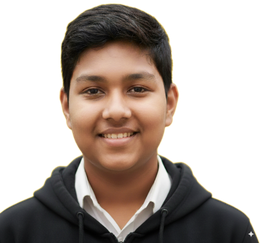
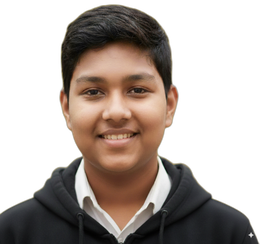
Fix focus claim (CS/AI/software, not neurotech), swap in rembg AI cutout

diff --git a/README.md b/README.md
@@ -3,7 +3,7 @@
 <td width="180"><img src="./shorya.png" width="160" alt="Shoryavardhaan Gupta" /></td>
 <td>
 <h3>Shoryavardhaan Gupta</h3>
-<p>17-year-old developer based in Kolkata, India. Building in neurotech, brain–computer interfaces, and applied AI.</p>
+<p>17-year-old developer based in Kolkata, India. Focused on computer science, AI applications, and software.</p>
 </td>
 </tr>
 </table>
@@ -11,14 +11,14 @@
 <p align="center">
   <img src="https://img.shields.io/badge/role-student%20developer-c57b2b?style=flat-square" alt="Role: student developer" />
   <img src="https://img.shields.io/badge/location-Kolkata%2C%20India-2f7fd6?style=flat-square" alt="Location: Kolkata, India" />
-  <img src="https://img.shields.io/badge/focus-neurotech%20%26%20BCI-3fae5b?style=flat-square" alt="Focus: neurotech and brain-computer interfaces" />
+  <img src="https://img.shields.io/badge/focus-CS%20%26%20AI%20applications-3fae5b?style=flat-square" alt="Focus: computer science and AI applications" />
 </p>
 
 I build things that solve problems I've actually run into: an off-grid mesh network for disaster comms, a civic-tech assistant for government schemes, a self-hosted way for people to support indie builders. Pinned repos below have the details. More on how I think about building: [why I build](https://shoryavardhaan.vercel.app/blog/why-i-build).
 
 ### Currently exploring
 
-Neurotech and brain–computer interfaces, grounded/embodied planning in AI systems, and how cognitive science ideas translate into working code. Published research on grounded planning is on [ORCID](https://orcid.org/0009-0009-1370-5230).
+Applied AI, grounded/embodied planning in AI systems, and software that solves real problems — plus a growing curiosity about neurotech and brain–computer interfaces I haven't built in yet. Published research on grounded planning is on [ORCID](https://orcid.org/0009-0009-1370-5230).
 
 ### Stack
 
